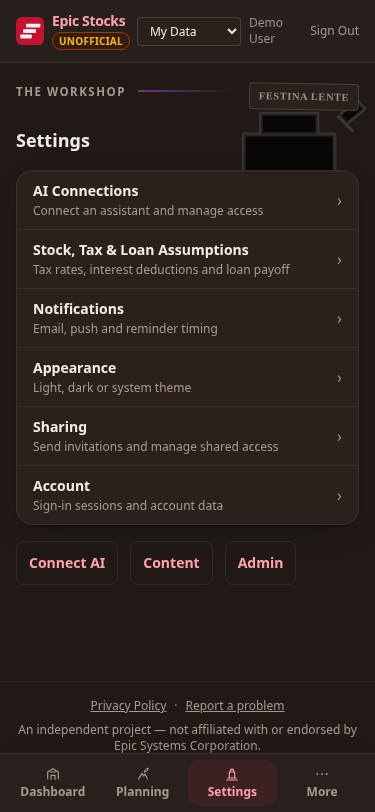
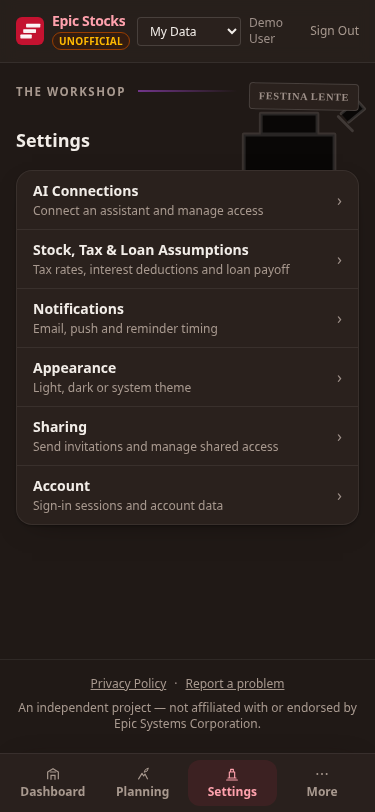
Remove redundant shortcuts from Settings

diff --git a/frontend/src/__tests__/Layout.test.tsx b/frontend/src/__tests__/Layout.test.tsx
@@ -45,16 +45,17 @@ afterEach(() => {
   vi.unstubAllEnvs()
 })
 
-function renderLayout() {
+function renderLayout(path = '/') {
   return render(
     <AppProvider>
       <ThemeProvider>
-        <MemoryRouter initialEntries={['/']}>
+        <MemoryRouter initialEntries={[path]}>
           <MaintenanceProvider>
             <ViewingProvider>
               <Routes>
                 <Route element={<Layout />}>
                   <Route index element={<p>content</p>} />
+                  <Route path="settings" element={<h1>Settings</h1>} />
                 </Route>
               </Routes>
             </ViewingProvider>
@@ -133,11 +134,15 @@ describe('Layout responsive navigation', () => {
     }
   })
 
-  it.each(['Mobile navigation', 'Main navigation'])('opens secondary destinations from %s', async name => {
+  it.each(['Mobile navigation', 'Main navigation'])('opens secondary destinations from More on Settings in %s', async name => {
     isAdmin = true
     const user = userEvent.setup()
-    renderLayout()
+    renderLayout('/settings')
     await screen.findByText('A', { exact: true })
+    expect(screen.getByRole('heading', { name: 'Settings' })).toBeInTheDocument()
+    for (const linkName of ['Admin', 'Content', 'Connect AI']) {
+      expect(screen.queryByRole('link', { name: linkName })).not.toBeInTheDocument()
+    }
     const navigation = within(screen.getByRole('navigation', { name }))
     const more = navigation.getByRole('button', { name: 'More' })
     await user.click(more)

diff --git a/frontend/src/scaffold/components/Layout.tsx b/frontend/src/scaffold/components/Layout.tsx
@@ -125,9 +125,6 @@ export default function Layout() {
               </nav>}
               <Outlet />
             </>}
-          {location.pathname === '/settings' && !location.hash && accountLinks.length > 0 && <nav aria-label="Account tools" className="mt-4 flex flex-wrap gap-3 text-sm font-semibold text-cs-brand dark:text-rose-300">
-            {accountLinks.map(({ to, label }) => <Link key={to} to={to} className="inline-flex min-h-11 items-center rounded-lg border border-cs-border px-3">{label}</Link>)}
-          </nav>}
         </div>
       </main>
       <nav aria-label="Mobile navigation" className="fixed inset-x-0 bottom-0 z-50 border-t border-cs-border bg-cs-surface/95 pb-[env(safe-area-inset-bottom)] shadow-[0_-8px_28px_-20px_rgba(26,20,17,0.45)] backdrop-blur md:hidden">

diff --git a/README.md b/README.md
@@ -995,7 +995,7 @@ Choose **Send a private report** for account-specific problems or to report with
 
 Content admins edit the grant-program data new grants start from for all users. A site admin promotes users to this role from the Admin panel (the role persists across logins). Site admins are implicitly content admins.
 
-Content admins see a **Content** nav link. From `/content` they can edit:
+Content admins can open **More → Content**. Site admins can also open **More → Admin**. From `/content` they can edit:
 
 | Section | What it controls |
 |---------|----------------|
